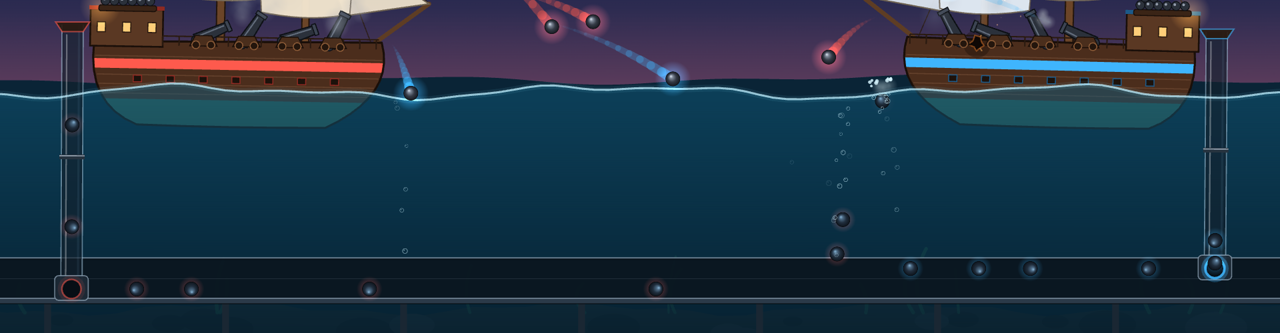
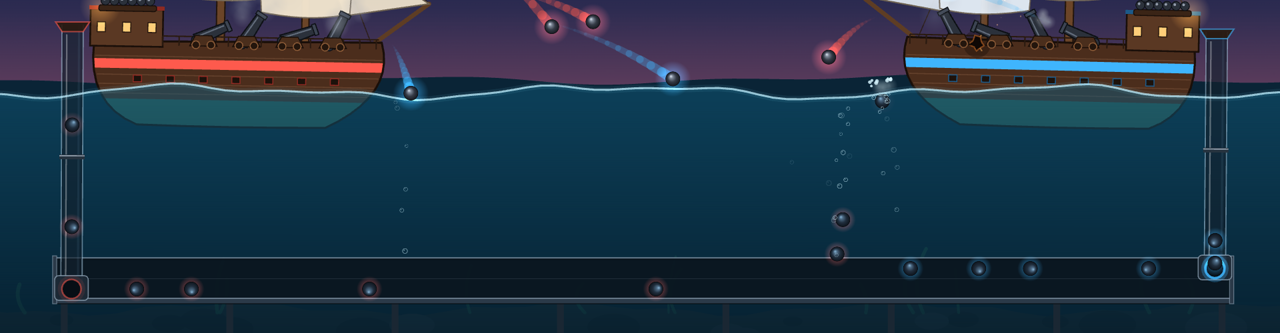
Naval: Sammelrinne reicht von Rohrfuß zu Rohrfuß statt aus dem Bild zu laufen
Reine Darstellung; Stirnplatten an beiden Enden, Stützen gleichmäßig verteilt.

Changed region(s): [[0.0, 0.7508, 0.0625, 0.9309], [0.9375, 0.7508, 1.0, 0.9309]]

diff --git a/src/scenarios/naval.js b/src/scenarios/naval.js
@@ -1112,14 +1112,20 @@ class NavalRenderer {
     // ---- Sammelrinne: ein offener Metalltrog über die ganze Breite, darin eine Spur je Schiff
     let top = 1e9, bot = -1e9;
     for (const s of sim.ships) { top = Math.min(top, s.laneY - r - 5 * u); bot = Math.max(bot, s.laneY + r + 3 * u); }
-    const x0 = -60 * u, x1 = L.W + 60 * u;
-    for (let x = 90 * u; x < L.W; x += 260 * u) g.rect(x - 5 * u, bot + 6 * u, 10 * u, L.H - bot).fill({ color: 0x1b2733, alpha: 0.95 });
+    // Die Rinne reicht genau von Rohrfuß zu Rohrfuß und schließt dort an die Einlaufgehäuse an (läuft nicht aus dem Bild)
+    const end = r + 14 * u;
+    let x0 = 1e9, x1 = -1e9;
+    for (const s of sim.ships) { x0 = Math.min(x0, s.liftX - end); x1 = Math.max(x1, s.liftX + end); }
+    const feet = Math.max(2, Math.round((x1 - x0) / (260 * u)));
+    for (let k = 0; k <= feet; k++) { const x = x0 + 14 * u + ((x1 - x0 - 28 * u) * k) / feet; g.rect(x - 5 * u, bot + 6 * u, 10 * u, L.H - bot).fill({ color: 0x1b2733, alpha: 0.95 }); }
     g.rect(x0, top, x1 - x0, bot - top).fill({ color: DARK, alpha: 0.9 });
     g.rect(x0, bot, x1 - x0, 8 * u).fill({ color: 0x2b3a49, alpha: 1 });
     g.moveTo(x0, bot).lineTo(x1, bot).stroke({ width: 1.6 * u, color: STEEL, alpha: 0.7 });
     g.moveTo(x0, bot + 8 * u).lineTo(x1, bot + 8 * u).stroke({ width: 1.5 * u, color: 0x000000, alpha: 0.55 });
     g.moveTo(x0, top).lineTo(x1, top).stroke({ width: 2.2 * u, color: STEEL, alpha: 0.6 });
     g.moveTo(x0, top + 2.4 * u).lineTo(x1, top + 2.4 * u).stroke({ width: 1 * u, color: 0x000000, alpha: 0.4 });
+    // Stirnplatten an beiden Enden
+    for (const x of [x0, x1]) g.rect(x - 3 * u, top - 3 * u, 6 * u, bot - top + 11 * u).fill({ color: 0x2b3a49, alpha: 1 }).stroke({ width: 1.2 * u, color: STEEL, alpha: 0.6 });
     for (let i = 1; i < sim.ships.length; i++) {          // dezente Trennleiste zwischen den Spuren
       const y = (sim.ships[i - 1].laneY + sim.ships[i].laneY) / 2;
       g.moveTo(x0, y).lineTo(x1, y).stroke({ width: 1 * u, color: STEEL, alpha: 0.16 });
